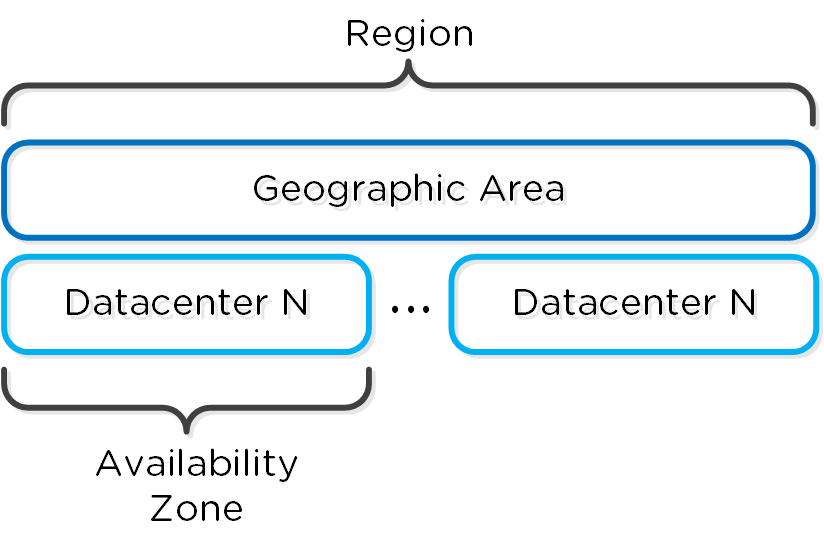
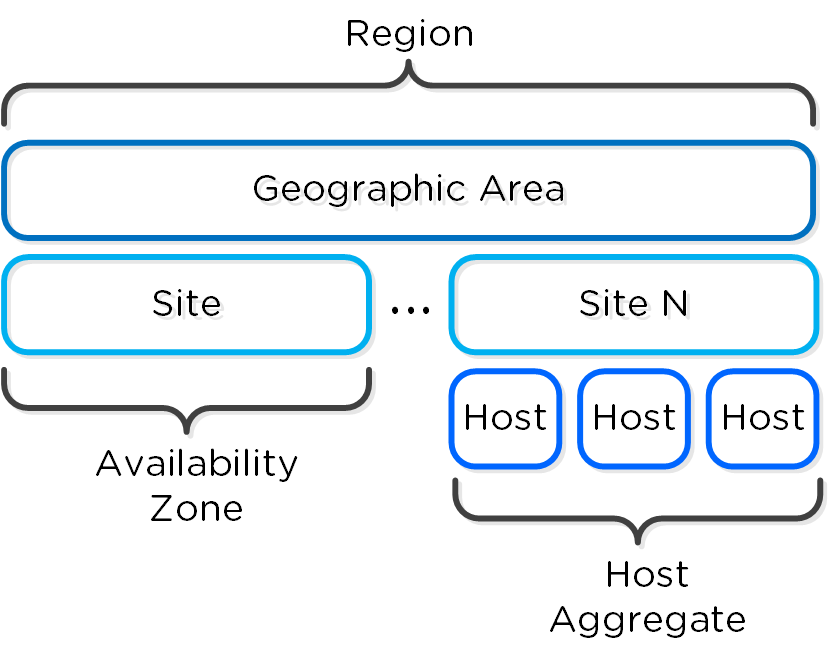
Misc updates and OS section update

Changed region(s): [[0.0, 0.031, 1.0, 0.898], [0.6675, 0.929, 0.9102, 0.9909], [0.182, 0.898, 0.3034, 0.9599]]

diff --git a/15-Book_of_Prism.html b/15-Book_of_Prism.html
@@ -941,12 +941,12 @@ $vms = Get-NTNXVM | where {$_.vmName -match $searchString}</p>
 <ul>
 	<li>OpenStack Controller (OSC)
 		<ul>
-			<li>An existing, or newly provisioned VM or host hosting the OpenStack UI and OpenStack services.  Handles all OpenStack API calls</li>
+			<li>An existing, or newly provisioned VM or host hosting the OpenStack UI and OpenStack services.  Handles all OpenStack API calls.</li>
 		</ul>
 	</li>
 	<li>Acropolis Services VM (SVM)
 		<ul>
-			<li>A helper VM which is responsible to taking OpenStack RPCs from the OpenStack Controller and translates them into native Acropolis API calls</li>
+			<li>A helper VM which is responsible to taking OpenStack RPCs from the OpenStack Controller and translates them into native Acropolis API calls.</li>
 		</ul>
 	</li>
 </ul>
@@ -1179,6 +1179,65 @@ $vms = Get-NTNXVM | where {$_.vmName -match $searchString}</p>
 </section>
 <section data-type="sect2">
 <h2>Design and Deployment</h2>
+
+<p>
+	For large scale cloud deployments it is important to leverage a delivery topology that will be distributed and meet the requirements of the end-users while providing flexibility and locality.
+</p>
+
+<p>
+	OpenStack leverages the following high-level constructs which are defined below:
+</p>
+
+<ul>
+	<li>
+		Region
+		<ul>
+			<li>
+				A geographic landmass or area where multiple Availability Zones (sites) are located.  These can include regions like US-Northwest or US-West.
+			</li>
+		</ul>
+	</li>
+	<li>
+		Availability Zone (AZ)
+		<ul>
+			<li>
+				A specific site or datacenter location where cloud services are hosted.  These can include sites like US-Northwest-1 or US-West-1.
+			</li>
+		</ul>
+	</li>
+	<li>
+		Host Aggregate
+		<ul>
+			<li>
+				A group of Nutanix clusters, can be a row, aisle or equivalent to the site / AZ.
+			</li>
+		</ul>
+	</li>
+	<li>
+		Host
+		<ul>
+			<li>
+				A Nutanix cluster (seen as a single host).
+			</li>
+		</ul>
+	</li>
+</ul>
+
+<p>
+	The figure shows the high-level relationship of the constructs:
+</p>
+
+<figure><img alt="" src="imagesv2/openstack_regions.png" />
+<figcaption>OpenStack - Deployment Layout</figcaption>
+</figure>
+
+<p>
+	The figure shows an example application of the constructs:
+</p>
+
+<figure><img alt="" src="imagesv2/openstack_regions_example.png" />
+<figcaption>OpenStack - Deployment Layout - Example</figcaption>
+</figure>
 
 <p>For larger deployments it is recommended to have multiple Acropolis SVMs connected to the OpenStack Controller abstracted by a load balancer. This allows for HA and of the SVMs as well as distribution of transactions. The SVM(s) don't contain any state information allowing them to be scaled.</p>
 
